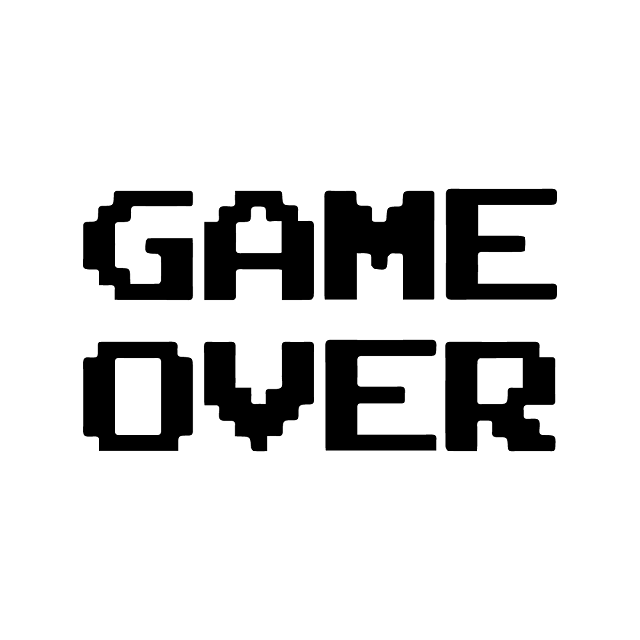
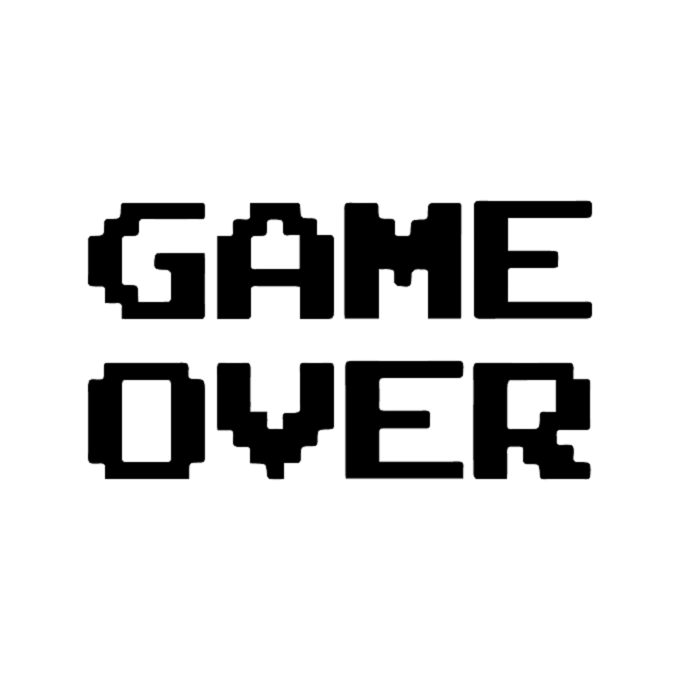
Pontuação
Foi adicionado a pontuação no header do jogo, foi atualizado a imagem de gameover

diff --git a/src/Main.py b/src/Main.py
@@ -7,12 +7,15 @@ class Main():
     def __init__(self):
         pygame.init()
         pygame.font.init()
-
+        self.myFont = pygame.font.SysFont('Comic Sans MS', 15)
         self.screen = pygame.display.set_mode((const.WIDTH, const.HEIGHT))
+        self.screenBoard = pygame.Surface((const.WIDTH_BOARD, const.HEIGHT_BOARD))
+        self.screenScore = pygame.Surface((const.WIDTH_SCORE, const.HEIGHT_SCORE))
+      
         self.screen.fill(pygame.Color(const.BOARD_COLOR_WHITE))
         self.clock = pygame.time.Clock()
-        self.gameState = GameEngine.GameState(pygame, self.screen)
-        self.squareSize = const.HEIGHT // len(self.gameState.board)
+        self.gameState = GameEngine.GameState(pygame, self.screen, self.screenBoard, self.screenScore)
+        self.squareSize = const.HEIGHT_BOARD // len(self.gameState.board)
         self.running = True
         self.squareSelected = []
         self.movementsPossibles = []
@@ -31,25 +34,27 @@ class Main():
                 elif event.type == pygame.MOUSEBUTTONDOWN:
                     location = pygame.mouse.get_pos()
                     col = location[0] // self.squareSize
-                    row = location[1] // self.squareSize
-                    playerMove = self.playerOne if self.playerOne.yourTurn else self.playerTwo
+                    row = (location[1] // self.squareSize) - 1
 
-                    if self.squareSelected == [row, col]:
-                        self.squareSelected = []
-                        self.gameState.clearMovements()
-                    else:
-                        self.squareSelected = [row, col]
-                    if self.squareSelected == playerMove.position or (row == playerMove.position[0] and playerMove.onBase):
-                        movementsPossibles = playerMove.possibleMovements(self.gameState.board, col)
-                        self.gameState.clearMovements()
-                        self.gameState.showMovements(movementsPossibles)
-                    elif self.gameState.board[row][col] == const.HIGHLIGHT_MOVEMENT or self.gameState.board[row][col] == const.IS_KEY_SELECTED or self.gameState.board[row][col] == playerMove.baseName:
-                        if [row, col] in movementsPossibles:
-                            nextPlayer = self.playerOne if playerMove != self.playerOne else self.playerTwo
-                            playerMove.makeMove([row, col], self.gameState, nextPlayer)
-                            nextPlayer.yourTurn = True
+                    if(col < len(self.gameState.board) and col >= 0 and row < len(self.gameState.board[0]) and row >= 0):
+                        playerMove = self.playerOne if self.playerOne.yourTurn else self.playerTwo
+
+                        if self.squareSelected == [row, col]:
+                            self.squareSelected = []
                             self.gameState.clearMovements()
-                            movementsPossibles = []
+                        else:
+                            self.squareSelected = [row, col]
+                        if self.squareSelected == playerMove.position or (row == playerMove.position[0] and playerMove.onBase):
+                            movementsPossibles = playerMove.possibleMovements(self.gameState.board, col)
+                            self.gameState.clearMovements()
+                            self.gameState.showMovements(movementsPossibles)
+                        elif self.gameState.board[row][col] == const.HIGHLIGHT_MOVEMENT or self.gameState.board[row][col] == const.IS_KEY_SELECTED or self.gameState.board[row][col] == playerMove.baseName:
+                            if [row, col] in movementsPossibles:
+                                nextPlayer = self.playerOne if playerMove != self.playerOne else self.playerTwo
+                                playerMove.makeMove([row, col], self.gameState, nextPlayer)
+                                nextPlayer.yourTurn = True
+                                self.gameState.clearMovements()
+                                movementsPossibles = []                  
 
             self.__drawGameState([self.playerOne, self.playerTwo])
             self.clock.tick(const.MAX_FPS)
@@ -98,11 +103,14 @@ class Main():
     def __drawGameState(self, players):
         self.__drawBoard(players)
         self.__drawPieces(players)
+        self.__drawPoints(players)
 
     '''
         Draw the board
     '''
     def __drawBoard(self, players):
+        self.screen.blit(self.screenScore, (0,0))
+        self.screen.blit(self.screenBoard, (0, const.HEIGHT_SCORE))
         colors = [pygame.Color("white"), pygame.Color("gray")]
         for row in range(len(self.gameState.board)):
             for col in range(len(self.gameState.board[0])):
@@ -116,19 +124,19 @@ class Main():
 
                 if playerToDraw != None:
                     pygame.draw.rect(
-                        self.screen,
+                        self.screenBoard,
                         playerToDraw.color,
                         pygame.Rect(col * self.squareSize, row * self.squareSize, self.squareSize, self.squareSize)
                     )
                 elif piece == const.HIGHLIGHT_MOVEMENT:
                     pygame.draw.rect(
-                        self.screen,
+                        self.screenBoard,
                         pygame.Color("orange"),
                         pygame.Rect(col * self.squareSize, row * self.squareSize, self.squareSize, self.squareSize)
                     )
                 else:
                     pygame.draw.rect(
-                        self.screen,
+                        self.screenBoard,
                         color,
                         pygame.Rect(col * self.squareSize, row * self.squareSize, self.squareSize, self.squareSize)
                     )
@@ -148,10 +156,21 @@ class Main():
 
                 if playerToDraw == None or piece == playerToDraw.baseName:
                     if piece != const.BLANK_SPACE and piece != const.HIGHLIGHT_MOVEMENT:
-                        self.screen.blit(
+                        self.screenBoard.blit(
                             const.IMAGES[piece],
                             pygame.Rect(col * self.squareSize, row * self.squareSize, self.squareSize, self.squareSize)
                         )
+
+    def __drawPoints(self, players):
+        textPoints = ""
+        heightPoints = 5
+
+        for player in players:
+            textPoints = "{jogador} - Chave no bolso {chave_bolso} x Chave na base {chave_base}".format(jogador=player.name, chave_bolso=player.keysOnPocket, chave_base=player.keysSaved)
+            textsurface = self.myFont.render(textPoints, True, pygame.Color("white"))
+            self.screen.blit(textsurface, (10, heightPoints))
+            heightPoints = (heightPoints + 20)
+               
 
 
 '''

diff --git a/src/GameEngine.py b/src/GameEngine.py
@@ -1,17 +1,18 @@
 from random import randrange
 import pygame
-import constant as const
 from sys import exit
 import constant as const
 
 
 class GameState():
-    def __init__(self, pyGame, screen):
+    def __init__(self, pyGame, screen, surfaceBoard, surfaceScore):
         self.board = const.BOARD
         self.whiteToMove = True
         self.moveLog = []
         self.pyGame = pyGame
         self.screen = screen
+        self.surfaceBoard = surfaceBoard
+        self.surfaceScore = surfaceScore
         self.myFont = pyGame.font.SysFont('Comic Sans MS', 30)
         self.__showKeys()
 
@@ -34,10 +35,6 @@ class GameState():
                         self.running = False
                         done = True
                         exit()
-                    if event.type == pygame.KEYDOWN:
-                        if event.key == pygame.K_SPACE:
-                            done = True
-                            exit()
 
     def showMovements(self, possiblePositions):
         for position in possiblePositions:
@@ -65,6 +62,7 @@ class GameState():
 
     def isInsideBoard(self, x, y):
         return ((x < 0) or (x > len(self.board[0])) or (y < 0) or (y > len(self.board)))
+
 
 
 

diff --git a/src/constant.py b/src/constant.py
@@ -1,5 +1,10 @@
 # Board size
-WIDTH = HEIGHT = 640
+WIDTH = 640
+HEIGHT = 680
+WIDTH_BOARD = 640
+HEIGHT_BOARD = 640
+WIDTH_SCORE  = 640
+HEIGHT_SCORE = 49
 
 # Test Board
 #       0     1     2     3     4     5     6     7     8     9     10    11    12
